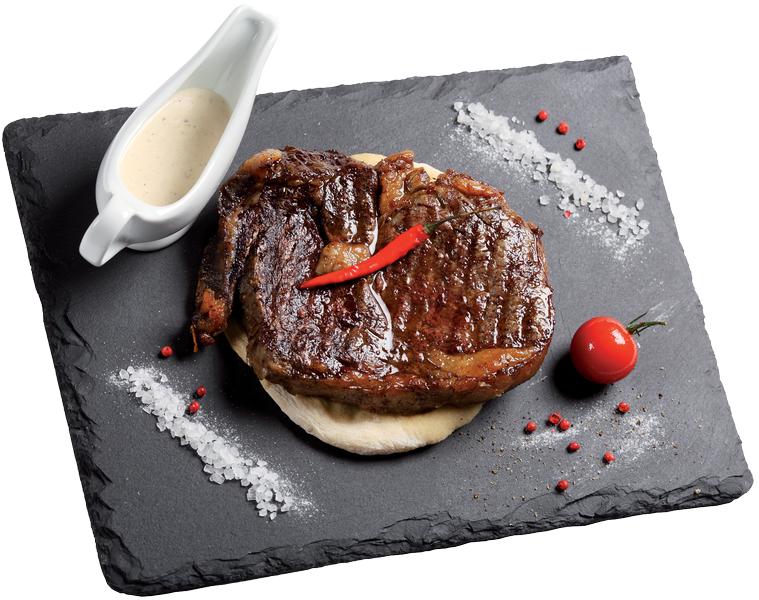
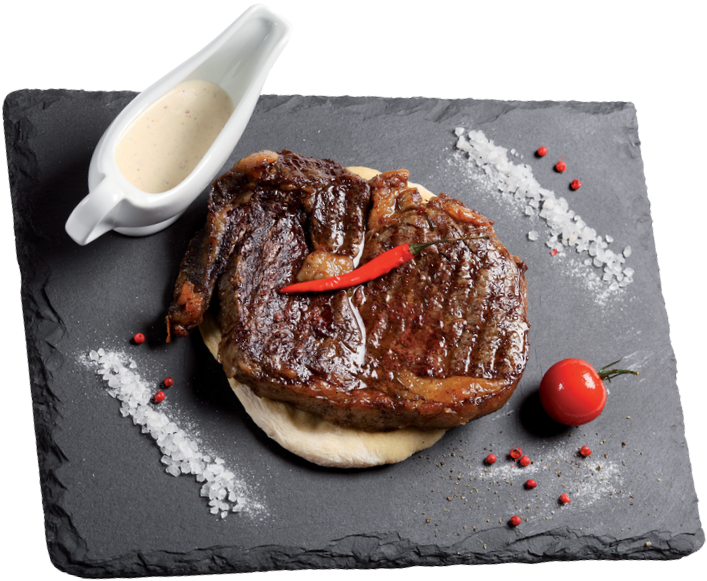
начало форматирования

diff --git a/app/index.html b/app/index.html
@@ -69,14 +69,14 @@
 <div class="container-fluid section1"> <!--container section1 -->
     <div class="container">
         <div class="row">
-            <div class="col-lg-6 col-md-6 col-sm-12">
+            <div class="col-lg-6 col-md-6 col-sm-6">
                 <div class="row">
                     <div class="dish">
                         <img class="dish__img" src="images/01_Home/stejk-ribaj.png" alt="phone">
                     </div>
                 </div>
             </div>
-            <div class="col-lg-6 col-md-6 col-sm-12">
+            <div class="col-lg-6 col-md-6 col-sm-6">
                 <div class="row dish-info">
                     <p class="dish-info__title">
                         DISH OF THE DAY

diff --git a/app/css/style.css b/app/css/style.css
@@ -5970,16 +5970,16 @@ button.close {
   background-image: url("../images/section1/bgd_sec1.png"); }
 
 .dish {
-  margin-top: -80px;
-  width: 725px;
-  height: 607px;
+  margin-top: -60px;
+  width: 100%; }
+
+.dish__img {
+  width: 100%;
   -webkit-transform: rotate(-25deg);
       -ms-transform: rotate(-25deg);
           transform: rotate(-25deg); }
 
-.dish__img {
-  width: 100%; }
-
 .dish-info {
   margin: 0 auto;
-  margin-top: 30%; }
+  margin-top: 30%;
+  text-align: center; }

diff --git a/app/sass/_section1.sass b/app/sass/_section1.sass
@@ -3,17 +3,17 @@
   background-image: url("../images/section1/bgd_sec1.png")
 
 .dish
-  margin-top: -80px
-  width: 725px
-  height: 607px
-  transform: rotate(-25deg)
+  margin-top: -60px
+  width: 100%
 
 .dish__img
   width: 100%
+  transform: rotate(-25deg)
 
 .dish-info
   margin: 0 auto
   margin-top: 30%
+  text-align: center
 
 .dish-info__name_price
 
